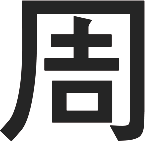
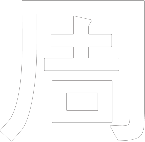
j
u

diff --git a/assets/css/main.css b/assets/css/main.css
@@ -599,7 +599,7 @@ input, select, textarea {
 	 input[type="reset"]:hover,
 	 button:hover,
 	 .button:hover {
-		 color: #f5e6bf;
+		 color: #f1e17a;
 	 }
 
 	 input[type="button"]:active,
@@ -1021,7 +1021,7 @@ input, select, textarea {
 				 position: absolute;
 				 top: 30px;
 				 left: 0;
-				 background-image: url("images/mainbg_yello.jpg"); 
+				 background-image: url("images/mainbg_black.jpg"); 
 				 background-repeat: no-repeat;
 				 background-position: 28px 0px;
 				 background-size: 1444px 750px;
@@ -1038,7 +1038,7 @@ input, select, textarea {
 				 font-size: 150px;
 			 }
 			 #main > .panel.intro header .hometit P{
-				 font-size: 16PX; color: #252525; font-weight: 400; letter-spacing: 3px; margin-left: -170px; position: absolute; top: 90px; left: 0;}
+				 font-size: 16PX; color: #fff; font-weight: 400; letter-spacing: 3px; margin-left: -170px; position: absolute; top: 90px; left: 0;}
 			 #main > .panel.intro header .hometxt{ float: left; margin-top: 150px;
 				 margin-left: 30px;	font-weight: 500; font-size: 10px; color: #252525;
 				line-height: 2; letter-spacing: 3px;
@@ -1052,7 +1052,7 @@ input, select, textarea {
 				 height: 100%;
 				 padding: 20px;
 				 }
-				 #typeStyle span {color: #252525; font-size: 17px;  width: 600px; letter-spacing: 3px; font-weight: 400;}
+				 #typeStyle span {color: #fff; font-size: 17px;  width: 600px; letter-spacing: 3px; font-weight: 400;}
 				 #typeStyle{white-space: pre-wrap;}
 				 #typeStyle strong{font-weight: 500;}
 
@@ -1136,9 +1136,9 @@ input, select, textarea {
 	 #e-mail img{width: 100%; height: 945px;}
 	 .ewarp{
 		 position: absolute; top: 150px; left: 90px;
-		 width: 90%;}
-	 #e-mail .ewarp h2{color: #252525; margin-bottom: 350px; text-align: center; margin-top: 300px ; font-size: 35px; font-weight: 600; letter-spacing: 5px;}
-	 #e-mail .ewarp .emailboxIn{background-color: none; width: 12%;float: right;}
+		 width: 75%; margin-left: 100px;}
+	 #e-mail .ewarp h2{color: #fff; margin-bottom: 350px; text-align: center; margin-top: 300px ; font-size: 35px; font-weight: 600; letter-spacing: 5px;}
+	 #e-mail .ewarp .emailboxIn{background-color: none; width: 200px;float: right; }
 
 	 .fadeinleft{   
 		 opacity:0;

diff --git a/index.html b/index.html
@@ -42,9 +42,7 @@
 								<div id="typeStyle"></div>
 						</div>
 							<!-- <div class="hometxt">
-							<p>안녕하세요<br>
-									두루두루 잘 하는 디자이너<br>
-									김선주 입니다.</p>
+							<p>Portfolio</p>
 							</div> -->
 						</div><!--.homeIn-->
 
@@ -294,7 +292,7 @@
 				<!-- #e-mail -->
 					<article id="e-mail" class="panel">
 						<div class="f_bg">
-							<img src="images/f_mainbg.jpg" alt="">
+							<img src="images/f_mainbg_black.jpg" alt="">
 						</div>		<!-- .f_bg -->
 						<div class="ewarp">
 							<h2 class="fadeinleft">Thank you!</h2>
@@ -304,7 +302,7 @@
 											<input type="submit" value="Send email"></a>
 									</div>
 									<div class="emailboxIn">
-										<a href="https://drive.google.com/file/d/1k9faYhh0PU-wWgdTIvj-2gQ2Foa3b-uJ/view?usp=sharing" title="pdf파일열기">
+										<a href="https://drive.google.com/file/d/1Wrp2uMST8-UZ1U_kdS-bBNZ0kSrUKEGB/view?usp=sharing" title="pdf파일열기">
 										<input type="submit" value="View the pdf" /></a>
 									</div>
 								</div>
